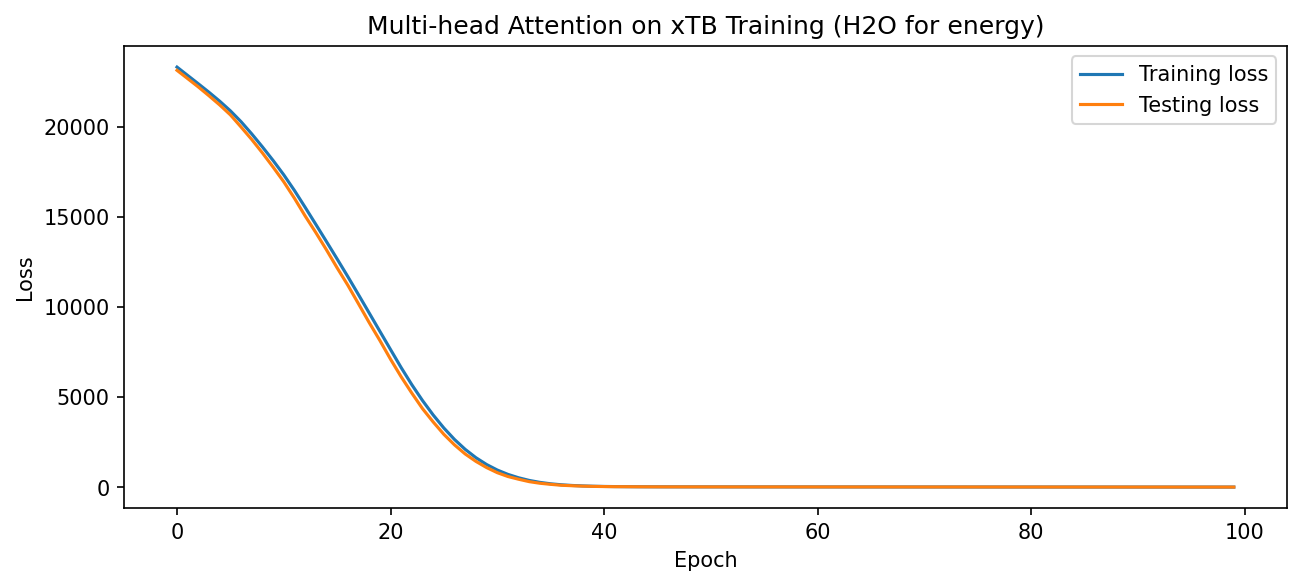
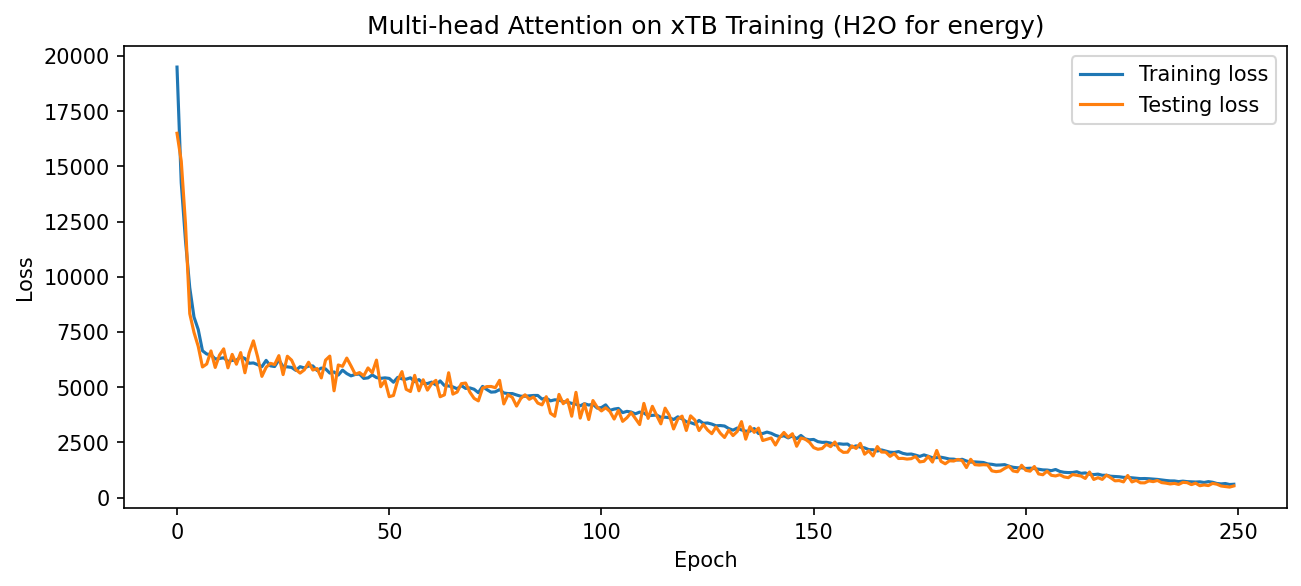
adding lr scheduler

diff --git a/training_scripts/mp_training.py b/training_scripts/mp_training.py
@@ -9,6 +9,7 @@ import matplotlib.pyplot
 matplotlib.use('Agg')
 import matplotlib.pyplot as plt
 import os
+import torch.optim.lr_scheduler as lr_scheduler
 
 from torch_geometric.nn import MessagePassing
 from ase import Atoms 
@@ -144,7 +145,7 @@ class MoleculeMessagePassing(MessagePassing):
     def update(self, aggregated_out, x):
         return x + self.update_mlp(torch.cat([x, aggregated_out], dim=-1))
 
-# Linear MLP MODEL: energy + per atom forces
+# Message passing algorithm + mlp: energy + per atom forces
 class MP_MLP(nn.Module):
    
     def __init__(self):
@@ -301,12 +302,15 @@ def edge_features_torch(pos_t, elements, cell_size, cutoff: float = 4.0):
 
     dists = torch.norm(diff, dim=-1)
     mask = dists < cutoff 
-    dists = dists[mask] # applying cutoff for meaningful distances
+
+    # apply mask to indexes and distances
+    i_idx = i_idx[mask]
+    j_idx = j_idx[mask]
+    dists = dists[mask] 
     
     log_prods = torch.tensor([log_primes[elements[i]] + log_primes[elements[j]]
                          for i, j in zip(i_idx.tolist(), j_idx.tolist())], dtype=pos_t.dtype)
     
-    log_prods = log_prods[mask]
     edge_features = torch.stack((log_prods, dists), dim=1)
     edge_idx = torch.stack([i_idx, j_idx], dim=0)
     
@@ -354,7 +358,7 @@ def collate_fn(batch):
             E_total_batch, F_batch, N_batch, elements_batch, cellsize_batch)
 
 
-def train_model_energy_forces(model, train_loader, test_loader, optimizer, epochs):
+def train_model_energy_forces(model, train_loader, test_loader, epochs, optimizer, scheduler):
     # monitor energy and forces separately
     train_energy_losses = []
     train_force_losses = []
@@ -418,6 +422,10 @@ def train_model_energy_forces(model, train_loader, test_loader, optimizer, epoch
 
             epoch_energy_loss += energy_loss.item()
             epoch_force_loss += force_loss.item()
+
+        before_lr = optimizer.param_groups[0]['lr']
+        scheduler.step()
+        after_lr = optimizer.param_groups[0]['lr']
 
         avg_energy_loss = epoch_energy_loss / len(train_loader)
         avg_force_loss = epoch_force_loss / len(train_loader)
@@ -520,10 +528,11 @@ def train_all(model_name, model_class, train_loader, test_loader, epochs=250, lr
         model.load_state_dict(torch.load(model_filename, map_location=device))
         
     optimizer = optim.Adam(model.parameters(), lr)
+    scheduler = lr_scheduler.LinearLR(optimizer, start_factor=1.0, end_factor=0.5, total_iters=30)
 
     # add message passing 
 
-    train_energy_losses, test_energy_losses, train_force_losses, test_force_losses = train_model_energy_forces(model, train_loader, test_loader, optimizer, epochs)
+    train_energy_losses, test_energy_losses, train_force_losses, test_force_losses = train_model_energy_forces(model, train_loader, test_loader, epochs, optimizer, scheduler)
     model.save(model_filename)
 
     return {
@@ -594,8 +603,6 @@ def main():
 
     models = {
     'MP': MP_MLP
-    #'Convolutional':ConvNet,
-    #Message Passing': MP_MLP
     }
 
     results ={}
@@ -611,8 +618,8 @@ def main():
         plot_force_losses(result['train_force'], result['test_force'], name)
     
     # compare between plots
-    plot_comparison(results, key='test_energy', ylabel='Energy Loss', filename='energy_comparison.png')
-    plot_comparison(results, key='test_force', ylabel='Force Loss', filename='force_comparison.png')
+    #plot_comparison(results, key='test_energy', ylabel='Energy Loss', filename='energy_comparison.png')
+    #plot_comparison(results, key='test_force', ylabel='Force Loss', filename='force_comparison.png')
 
 
 if __name__ == "__main__":

diff --git a/training_scripts/mha_training.py b/training_scripts/mha_training.py
@@ -10,6 +10,8 @@ matplotlib.use('Agg')
 import matplotlib.pyplot as plt
 import os
 
+import torch.optim.lr_scheduler as lr_scheduler
+
 from torch_geometric.nn import MessagePassing
 from ase import Atoms 
 from ase.io import read
@@ -398,7 +400,7 @@ def collate_fn(batch):
             E_total_batch, F_batch, N_batch, elements_batch, cellsize_batch)
 
 
-def train_model_energy_forces(model, train_loader, test_loader, optimizer, epochs):
+def train_model_energy_forces(model, train_loader, test_loader, epochs, optimizer, scheduler):
     # monitor energy and forces separately
     train_energy_losses = []
     train_force_losses = []
@@ -462,6 +464,10 @@ def train_model_energy_forces(model, train_loader, test_loader, optimizer, epoch
 
             epoch_energy_loss += energy_loss.item()
             epoch_force_loss += force_loss.item()
+        
+        before_lr = optimizer.param_groups[0]['lr']
+        scheduler.step()
+        after_lr = optimizer.param_groups[0]['lr']
 
         avg_energy_loss = epoch_energy_loss / len(train_loader)
         avg_force_loss = epoch_force_loss / len(train_loader)
@@ -553,7 +559,7 @@ def plot_force_losses(train_force_losses, test_force_losses, model_name):
 #-------------------------------------
 
 
-def train_all(model_name, model_class, train_loader, test_loader, epochs=100, lr=1e-4):
+def train_all(model_name, model_class, train_loader, test_loader, epochs=250, lr=1e-4):
     print(f'Training {model_name} model...')
     model = model_class
     model_filename = f'{model_name}_xtb.pt'
@@ -564,8 +570,9 @@ def train_all(model_name, model_class, train_loader, test_loader, epochs=100, lr
         model.load_state_dict(torch.load(model_filename, map_location=device))
         
     optimizer = optim.Adam(model.parameters(), lr)
+    scheduler = lr_scheduler.LinearLR(optimizer, start_factor=1.0, end_factor=0.5, total_iters=30)
 
-    train_energy_losses, test_energy_losses, train_force_losses, test_force_losses = train_model_energy_forces(model, train_loader, test_loader, optimizer, epochs)
+    train_energy_losses, test_energy_losses, train_force_losses, test_force_losses = train_model_energy_forces(model, train_loader, test_loader, epochs, optimizer, scheduler)
     model.save(model_filename)
 
     return {
@@ -633,7 +640,8 @@ def main():
     )
 
     print("Beginning to train...")
-
+    
+    
     models = {
     'Multi-head Attention': AttentionModel(node_dim=1, edge_dim=2, d_model=64, num_heads=4)
     }
@@ -641,6 +649,7 @@ def main():
     results ={}
 
     for name, mlff in models.items():
+        
         results[name] = train_all(name, mlff, train_loader, test_loader)
 
    
@@ -651,8 +660,8 @@ def main():
         plot_force_losses(result['train_force'], result['test_force'], name)
     
     # compare between plots
-    plot_comparison(results, key='test_energy', ylabel='Energy Loss', filename='energy_comparison.png')
-    plot_comparison(results, key='test_force', ylabel='Force Loss', filename='force_comparison.png')
+    #plot_comparison(results, key='test_energy', ylabel='Energy Loss', filename='energy_comparison.png')
+    #plot_comparison(results, key='test_force', ylabel='Force Loss', filename='force_comparison.png')
 
 
 if __name__ == "__main__":

diff --git a/training_scripts/master_training.py b/training_scripts/master_training.py
@@ -10,6 +10,8 @@ matplotlib.use('Agg')
 import matplotlib.pyplot as plt
 import os
 
+import torch.optim.lr_scheduler as lr_scheduler
+
 from torch_geometric.nn import MessagePassing
 from ase import Atoms 
 from ase.io import read
@@ -540,7 +542,7 @@ def collate_fn(batch):
             E_total_batch, F_batch, N_batch, elements_batch, cellsize_batch)
 
 
-def train_model_energy_forces(model, train_loader, valid_loader, optimizer, epochs):
+def train_model_energy_forces(model, train_loader, valid_loader, epochs, optimizer, scheduler):
     # monitor energy and forces separately
     train_energy_losses = []
     train_force_losses = []
@@ -603,6 +605,10 @@ def train_model_energy_forces(model, train_loader, valid_loader, optimizer, epoc
 
             epoch_energy_loss += energy_loss.item()
             epoch_force_loss += force_loss.item()
+
+        before_lr = optimizer.param_groups[0]['lr']
+        scheduler.step()
+        after_lr = optimizer.param_groups[0]['lr']
 
         avg_energy_loss = epoch_energy_loss / len(train_loader)
         avg_force_loss = epoch_force_loss / len(train_loader)
@@ -704,11 +710,11 @@ def train_all(model_name, model_class, train_loader, valid_loader, epochs=500, l
         print(f"Found {model_filename}; loading model.")
         model.load_state_dict(torch.load(model_filename, map_location=device))
         
+
     optimizer = optim.Adam(model.parameters(), lr)
+    scheduler = lr_scheduler.LinearLR(optimizer, start_factor=1.0, end_factor=0.5, total_iters=30)
 
-    # add message passing 
-
-    train_energy_losses, test_energy_losses, train_force_losses, test_force_losses = train_model_energy_forces(model, train_loader, valid_loader, optimizer, epochs)
+    train_energy_losses, test_energy_losses, train_force_losses, test_force_losses = train_model_energy_forces(model, train_loader, valid_loader, epochs, optimizer, scheduler)
     model.save(model_filename)
 
     return {
@@ -862,8 +868,8 @@ def main():
     print("Beginning to train models...")
 
     models = {
-    'MLP': WedgeMLP
-    #'Convolutional': ConvNet
+    'MLP': WedgeMLP,
+    'Convolutional': ConvNet
     #Message Passing': MP_MLP
     }
     
@@ -871,8 +877,8 @@ def main():
 
     for name, mlff in models.items():
         results[name] = train_all(name, mlff, train_loader, valid_loader, epochs=250)
-
-   
+        test_metrics = test_models(name, results[name]['model'], test_loader)
+        results[name]['test_metrics'] = test_metrics
         print(f'Done training {name}')
 
     for name, result in results.items():
